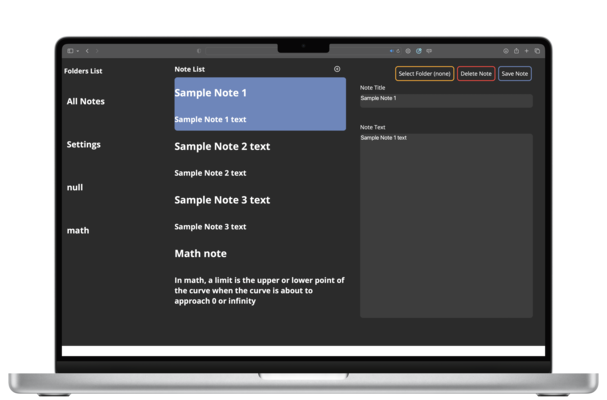
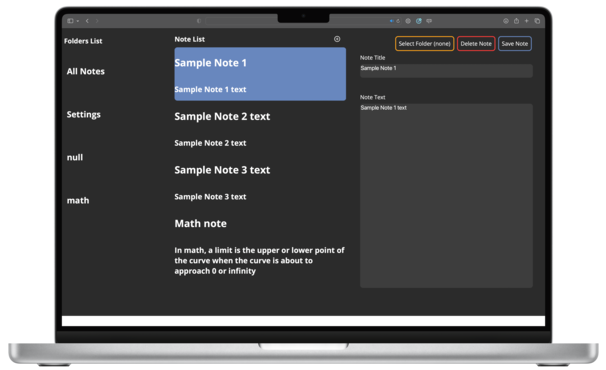
changed some images

diff --git a/src/Components/Card.js b/src/Components/Card.js
@@ -15,8 +15,8 @@ export function Card(props) {
                     <h1 className={"flex-none w-fit text-center md:text-2xl text-lg border-solid p-1 md:p-1.5 rounded-lg font-semibold text-white " + props.colors.fullBackground}>{props.currentApp.language}</h1>
                 </div>
             </div>
-            <img class="h-80 w-100 object-scale-down relative rounded-md block dark:hidden" src={props.currentApp.lightScreenshots} alt="app screenshot"></img>
-            <img class="h-80 w-100 object-scale-down relative rounded-md hidden dark:block" src={props.currentApp.darkScreenshots} alt="app screenshot"></img>
+            <img class="pb-2 pt-2 w-100 object-scale-down relative rounded-md block dark:hidden" src={props.currentApp.lightScreenshots} alt="app screenshot"></img>
+            <img class="pb-2 pt-2 h-80 w-100 object-scale-down relative rounded-md hidden dark:block" src={props.currentApp.darkScreenshots} alt="app screenshot"></img>
 
             <h1 className="md:text-2xl text-xl w-full">{props.currentApp.description}</h1>
 
